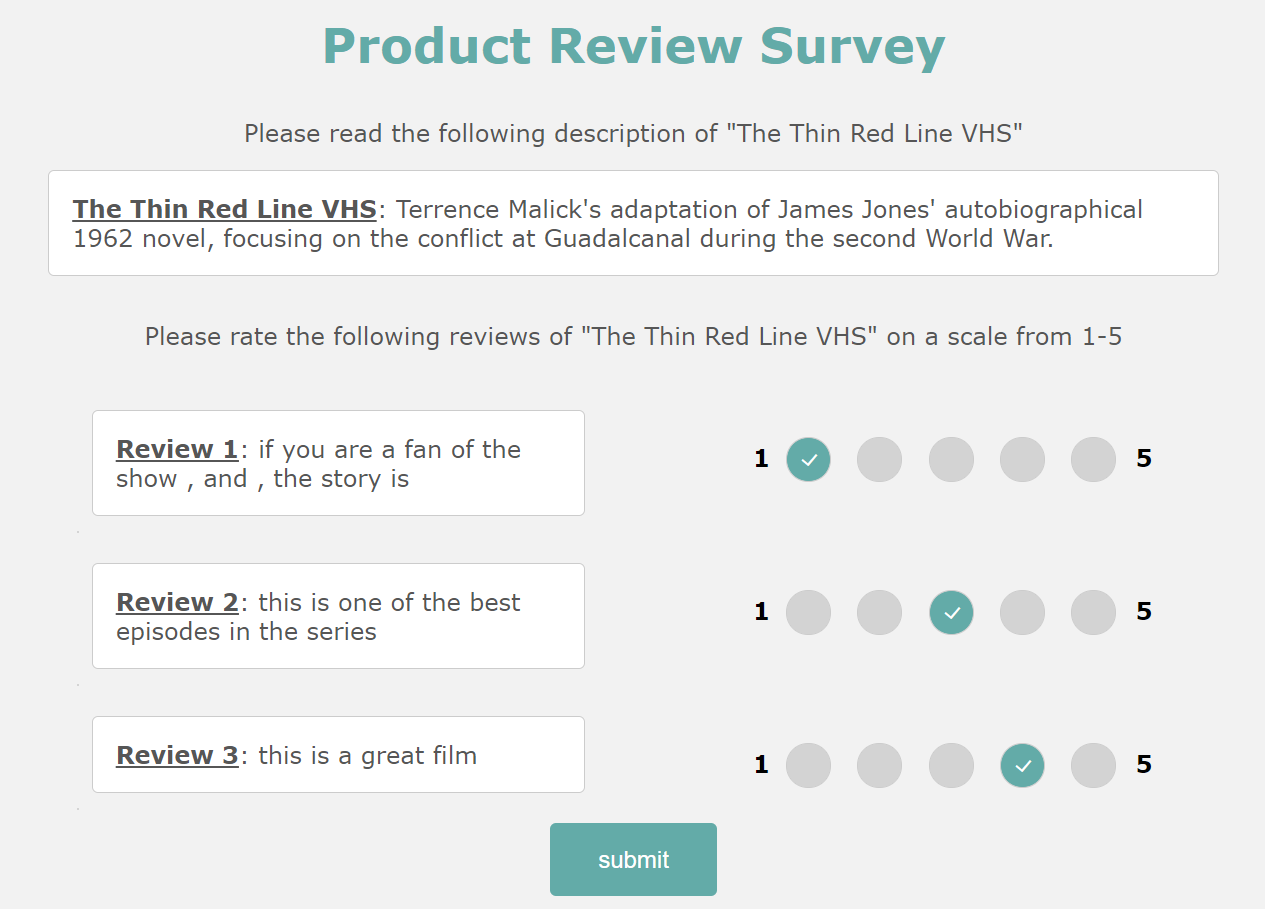
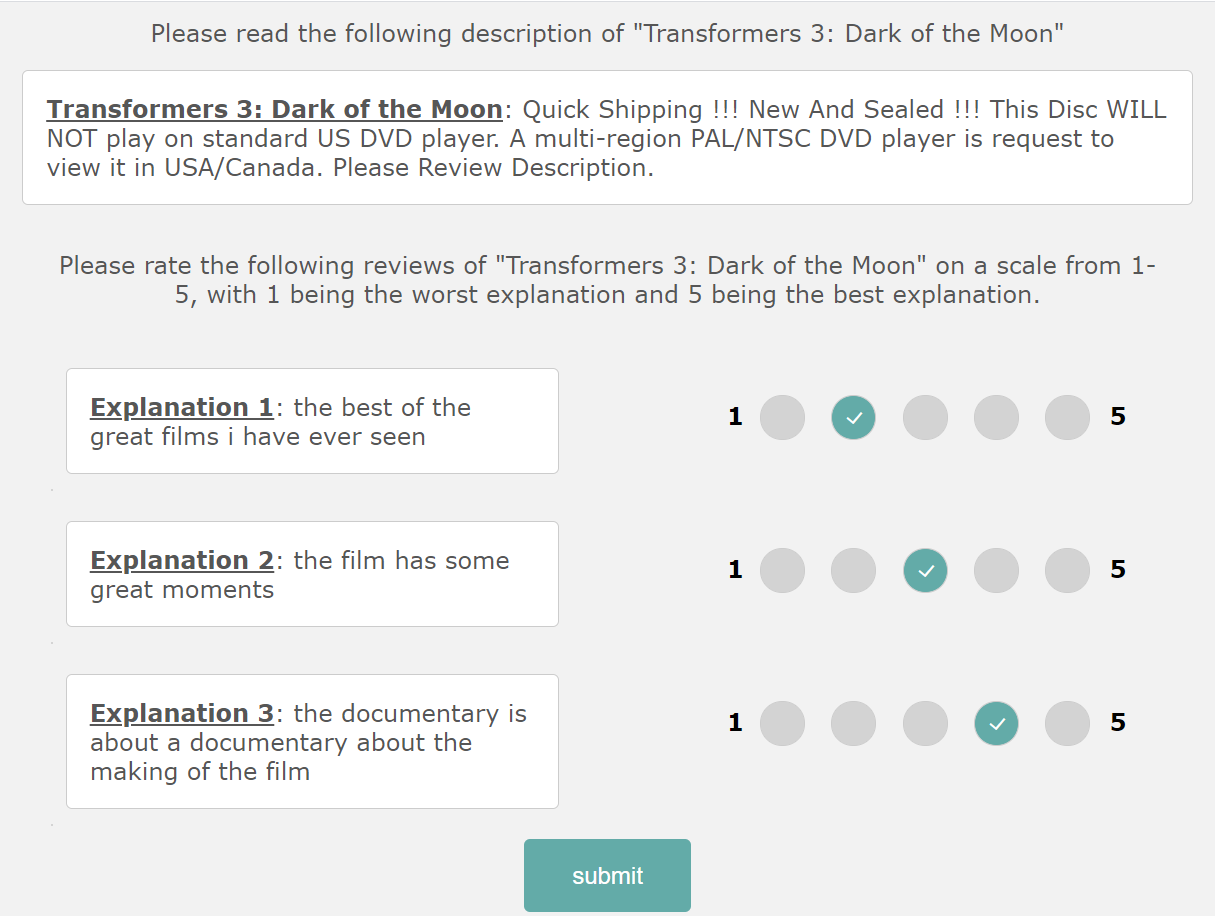
test version 3-10

diff --git a/v1/templates/v1/thoughts.html b/v1/templates/v1/thoughts.html
@@ -35,7 +35,7 @@
 	form input{
 		margin-top: 10px;
 	}
-	.button {
+.button {
     background-color: #63aba8;
     border: none;
     color: white;
@@ -58,16 +58,19 @@
   <title>Recommendation Explanation Survey</title>
 </head>
 <body style="background-color: #f2f2f2">
-<h1 class="header">Thank you!</h1>
+<h1 class="header">Final Questions</h1>
   
 <div class="mturk-id">
-  <p class="question">Thank you for taking this survey.</p>
+
   <form action='../../{{ respondent_id }}/{{ position }}' id='to_driver' method='get'>	
     <div class="question">
-		<label for="mturk-id">Please enter your <b>MTurk Worker ID</b> below:</label><br>
-		<input type="text" id="mturk_id" name="mturk_id" onkeyup="manage(this)">
+		<label for="factors">1. What factors affect your ratings of explanations? (mandatory)</label><br><br>
+		<textarea rows="5" cols="60" id= "factors" name="factors" onkeyup="manage(this)" maxlength=255></textarea>
+	</div><br>
+	<div class="question">
+		<label for="additional">2. Any additional comments or suggestions on this survey? (optional)</label><br><br>
+		<textarea rows="5" cols="60" id="additional" name="additional" maxlength=255></textarea>
 	</div>
-	<br>
 	
     <input type="submit" class="button" id="submit_button" value="submit" disabled>
   </form>
@@ -75,6 +78,11 @@
 
 </body>
 <script>
+document.getElementById("factors").style.height = "100px";
+document.getElementById("factors").style.width = "400px";
+document.getElementById("additional").style.height = "100px";
+document.getElementById("additional").style.width = "400px";
+
 function manage(txt) {
 	if (txt.value.length === 0) {
 		document.getElementById("submit_button").disabled = true;

diff --git a/v1/templates/v1/survey.html b/v1/templates/v1/survey.html
@@ -150,24 +150,24 @@ img {
       border-radius: 4px;
     }
 </style>
-  <title>Product Review Survey</title>
+  <title>Recommendation Explanation Survey</title>
 </head>
 <body style="background-color: #f2f2f2">
-<h1 class="header">Product Review Survey</h1>
+<h1 class="header">Recommendation Explanation Survey</h1>
 <div class="instr">Please read the following description of "{{ name }}"</div>
 <div class="desc">
 <u><b>{{ name }}</b></u>: {{ description }}
 </div>
 <div></div>
 <div>
-<div class="instr">Please rate the following reviews of "{{ name }}" on a scale from 1-5</div>
+<div class="instr">Please rate the following reviews of "{{ name }}" on a scale from 1-5, with 1 being the worst explanation and 5 being the best explanation.</div>
 </div>
 <div style="text-align: center">
 	<form action="../../{{ respondent_id }}/{{ position }}" id="to_driver" method="get">
 		<div class="row main_divs">
 		<div class="column columnl">
 		<div class="review">
-		<b><u>Review 1</u></b>: {{ review1 }}
+		<b><u>Explanation 1</u></b>: {{ review1 }}
 		</div>
 		</div>
 		<div class="column columnr">
@@ -188,7 +188,7 @@ img {
 		<div class="row main_divs">
 		<div class="column columnl">
 		<div class="review">
-		<b><u>Review 2</u></b>: {{ review2 }}
+		<b><u>Explanation 2</u></b>: {{ review2 }}
 		</div>
 		</div>
 		<div class="column columnr">
@@ -209,7 +209,7 @@ img {
 		<div class="row main_divs">
 		<div class="column columnl">
 		<div class="review">
-		<b><u>Review 3</u></b>: {{ review3 }}
+		<b><u>Explanation 3</u></b>: {{ review3 }}
 		</div>
 		</div>
 		<div class="column columnr">

diff --git a/v1/templates/v1/instructions.html b/v1/templates/v1/instructions.html
@@ -58,16 +58,16 @@ img {
   background-color:red;
 }
 </style>
-  <title>Product Review Survey</title>
+  <title>Recommendation Explanation Survey</title>
 </head>
 <body style="background-color: #f2f2f2">
 <h1 class="header">Instructions</h1>
 <div>
-	<p>1. You will be shown a description of a product and three reviews of that product</p>
-  <p>2. Rate each of the reviews on a scale from 1 to 5, where 1 is "this review is not useful at all" and 5 is "this review is very useful"</p>
-	<p>3. Press submit</p>
-  <p>4. You will then be directed to a similar page for the next product.</p>
-  <p>5. There will be 15 pages. After you have submitted the last page, please enter your MTurk ID. </p>
+	<p>1. You will be shown a description of a product and three sentences of that product. Please rate the following sentences for their quality as explanations for recommending or not recommending this item.</p>
+  <p>2. The task is to rate each of the sentences on a scale from 1 to 5, with 1 having lowest quality and 5 having highest quality.</p>
+	<p>3. Click submit to confirm your rating.</p>
+  <p>4. You will then be directed to a new page to complete the next task.</p>
+  <p>5. There are 10 tasks in total. After you have submitted all, please enter your MTurk ID. </p>
   <p>A given survey page will look like this:</p>
 </div>
 {% load staticfiles %}

diff --git a/v1/templates/v1/complete.html b/v1/templates/v1/complete.html
@@ -40,12 +40,12 @@
   <title>Recommendation Explanation Survey</title>
 </head>
 <body style="background-color: #f2f2f2">
-<h1 class="header">Thank you!</h1>
+<h1 class="header">Survey No Longer Active</h1>
   
 <div class="mturk-id">
   <div>
-    <p class="description">Please enter <b>LA43SB1X</b> in your HIT in MTurk.</p>
-	<p class="description">We will verify your responses and if they qualify, you will receive your credits within 5 days.</p>
+    <p class="description">This survey has already received all necessary responses.</p>
+	<p class="description">If you want have questions about this survey or research, please visit <a href="https://www.infoseeking.org/">the InfoSeeking website</a>.</p>
   </div>
 </div>
 

diff --git a/v1/views.py b/v1/views.py
@@ -5,28 +5,42 @@ from v1.models import *
 from random import randint, shuffle
 import csv, datetime
 
+responses_per_prod = 3
+responses_per_user = 10
+
 def entry(request):
     # create new Respondent in database
-    respondent = Respondent()
-    products = Product.objects.filter(num_responses__lt=5)
+    global responses_per_prod
+    global responses_per_user
+    
+    products = Product.objects.filter(num_responses__lt=responses_per_prod)
+    # FOR TESTING ONLY
+    products = products.filter(id__lt=11)
+    print(len(products))
+    ###
+    if (len(products) < responses_per_user):
+        return render(request, "v1/complete.html")
     indices = [i for i in range(len(products))]
     
     selected_prod = products[indices.pop(randint(0, len(indices) - 1))]
     p_seq = str(selected_prod.id)
     selected_prod.num_responses += 1
     selected_prod.save()
-    for _ in range(14):
+    for _ in range(responses_per_user - 1):
         selected_prod = products[indices.pop(randint(0, len(indices) - 1))]
         p_seq += " " + str(selected_prod.id)
         selected_prod.num_responses += 1
         selected_prod.save()
-        
+    
+    respondent = Respondent()
     respondent.product_seq = p_seq
     respondent.save()
     return redirect("driver", respondent.id, respondent.position)
     
 @cache_control(no_cache=True, must_revalidate=True, no_store=True)    
 def driver(request, respondent_id, position):
+    global responses_per_prod
+    global responses_per_user
     # find user, compare given position with database position
     respondent = Respondent.objects.get(id=respondent_id)
     
@@ -39,7 +53,7 @@ def driver(request, respondent_id, position):
                 return redirect("survey", respondent_id, respondent.position)
             else:
                 return redirect("instructions", respondent_id, respondent.position)
-        else:
+        elif respondent.position <= responses_per_user:
             # update db with responses
             if "surv_submit" in request.GET:
                 rev1radio = "radio" + str(request.GET["review1place"])
@@ -58,12 +72,31 @@ def driver(request, respondent_id, position):
                 if " " in respondent.product_seq:
                     respondent.product_seq = respondent.product_seq[respondent.product_seq.index(" ") + 1:]
                 else:
-                    #redirect to thank you page
+                    #redirect to thoughts page
                     respondent.product_seq = "Done"
                     respondent.save()
-                    return redirect("thanks", respondent_id)
+                    return redirect("thoughts", respondent_id, respondent.position)
                 respondent.save()
             return redirect("survey", respondent_id, respondent.position)
+            
+        elif respondent.position == responses_per_user + 1:
+            if "factors" in request.GET:
+                respondent.position += 1
+                respondent.factors = request.GET["factors"][:255]
+                if "additional" in request.GET:
+                    respondent.additional = request.GET["additional"][:255]
+                respondent.save()
+                return redirect("thanks", respondent_id, respondent.position)
+            return redirect("thoughts", respondent_id, respondent.position)
+            # thoughts
+        else: # position 17
+            if "mturk_id" in request.GET:
+                respondent.position += 1
+                respondent.mturk_id = request.GET["mturk_id"][:50]
+                respondent.save()
+                return render(request, "v1/code.html")
+            return redirect("thanks", respondent_id, respondent.position)
+            # thanks
     else: # trying to use back button case
         return redirect("driver", respondent_id, respondent.position)
 
@@ -102,25 +135,35 @@ def survey(request, respondent_id, position):
         "position": position
     }
     return render(request, "v1/survey.html", context)
-
-def thanks(request, respondent_id):
+    
+@cache_control(no_cache=True, must_revalidate=True, no_store=True)
+def thoughts(request, respondent_id, position):
+    respondent = Respondent.objects.get(id=respondent_id)
+    if respondent.position != position:
+        return redirect("driver", respondent_id, respondent.position)
     context = {
-        'respondent_id': respondent_id
+        'respondent_id': respondent_id,
+        'position': position
     }
-    if 'mturk_id' in request.GET:
-        resp = Respondent.objects.get(id=respondent_id)
-        resp.mturk_id = request.GET['mturk_id'][:50]
-        resp.save()
-        return render(request, 'v1/code.html')
-    else:
-        return render(request, 'v1/thanks.html', context)
+    return render(request, 'v1/thoughts.html', context)
+
+@cache_control(no_cache=True, must_revalidate=True, no_store=True)
+def thanks(request, respondent_id, position):
+    respondent = Respondent.objects.get(id=respondent_id)
+    if respondent.position != position:
+        return redirect("driver", respondent_id, respondent.position)
+    context = {
+        'respondent_id': respondent_id,
+        'position': position
+    }
+    return render(request, 'v1/thanks.html', context)
 
 def export_users(request):
     response = HttpResponse(content_type="text/csv")
     writer = csv.writer(response)
-    writer.writerow(['id', 'mturk_id', 'pages_completed', 'date'])
+    writer.writerow(['id', 'mturk_id', 'pages_completed', 'factors', 'additional', 'date'])
     
-    for u in Respondent.objects.all().values_list('id', 'mturk_id', 'position', 'date'):
+    for u in Respondent.objects.all().values_list('id', 'mturk_id', 'position', 'factors', 'additional', 'date'):
         writer.writerow(u)
     
     today = datetime.date.today()

diff --git a/v1/urls.py b/v1/urls.py
@@ -7,7 +7,8 @@ urlpatterns = [
     path('<int:respondent_id>/<int:position>/', views.driver, name='driver'),
     path('instructions<int:respondent_id>/<int:position>/', views.instructions, name='instructions'),
     path('survey<int:respondent_id>/<int:position>/', views.survey, name='survey'),
-    path('thanks<int:respondent_id>/', views.thanks, name='thanks'),
+    path('thoughts<int:respondent_id>/<int:position>/', views.thoughts, name='thoughts'),
+    path('thanks<int:respondent_id>/<int:position>/', views.thanks, name='thanks'),
     path('export_ratings/', views.export_ratings, name='ratings'),
     path('export_users/', views.export_users, name='users'),
     path('export_products/', views.export_products, name='products'),

diff --git a/v1/migrations/0004_auto_20210131_1106.py b/v1/migrations/0004_auto_20210131_1106.py
@@ -1,0 +1,23 @@
+# Generated by Django 2.2.6 on 2021-01-31 19:06
+
+from django.db import migrations, models
+
+
+class Migration(migrations.Migration):
+
+    dependencies = [
+        ('v1', '0003_auto_20210127_1334'),
+    ]
+
+    operations = [
+        migrations.AddField(
+            model_name='respondent',
+            name='additional',
+            field=models.CharField(default='None', max_length=255),
+        ),
+        migrations.AddField(
+            model_name='respondent',
+            name='factors',
+            field=models.CharField(default='None', max_length=255),
+        ),
+    ]

diff --git a/v1/models.py b/v1/models.py
@@ -7,6 +7,8 @@ class Respondent(models.Model):
     date = models.DateTimeField(auto_now_add=True)
     product_seq = models.CharField(max_length=100, default="None")
     mturk_id = models.CharField(max_length=50, default="None")
+    factors = models.CharField(max_length=255, default="None")
+    additional = models.CharField(max_length=255, default="None")
 
 class Product(models.Model):
     name = models.CharField(max_length=210, default="None")

diff --git a/clear_db.py b/clear_db.py
@@ -1,0 +1,13 @@
+from v1.models import *
+
+def clear_ratings():
+    for p in Product.objects.all():
+        p.num_responses = 0
+        p.save()
+    
+    for r in Rating.objects.all():
+        r.delete()
+
+def clear_respondents():
+    for r in Respondent.objects.all():
+        r.delete()
